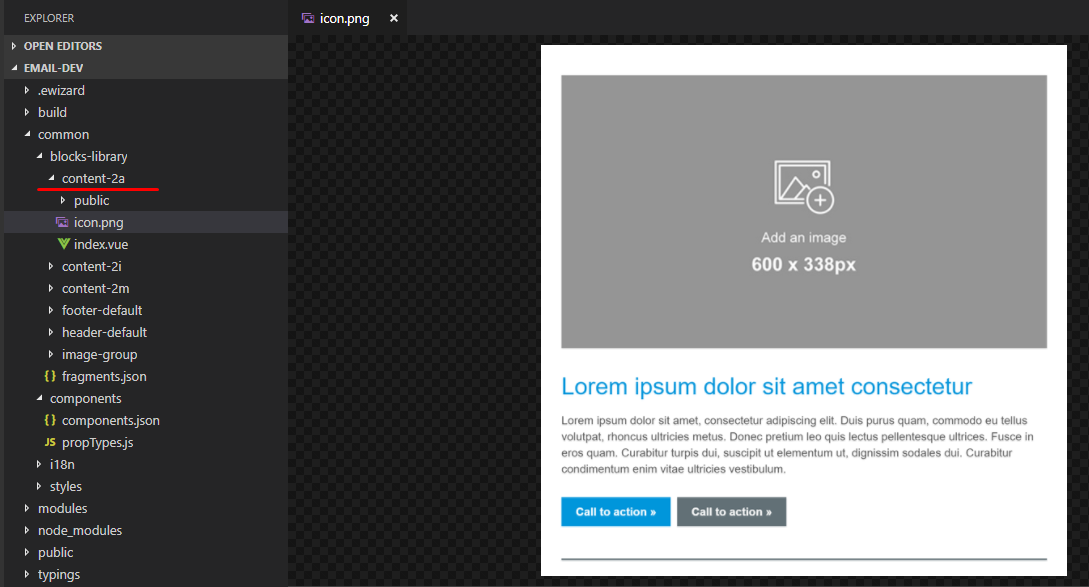
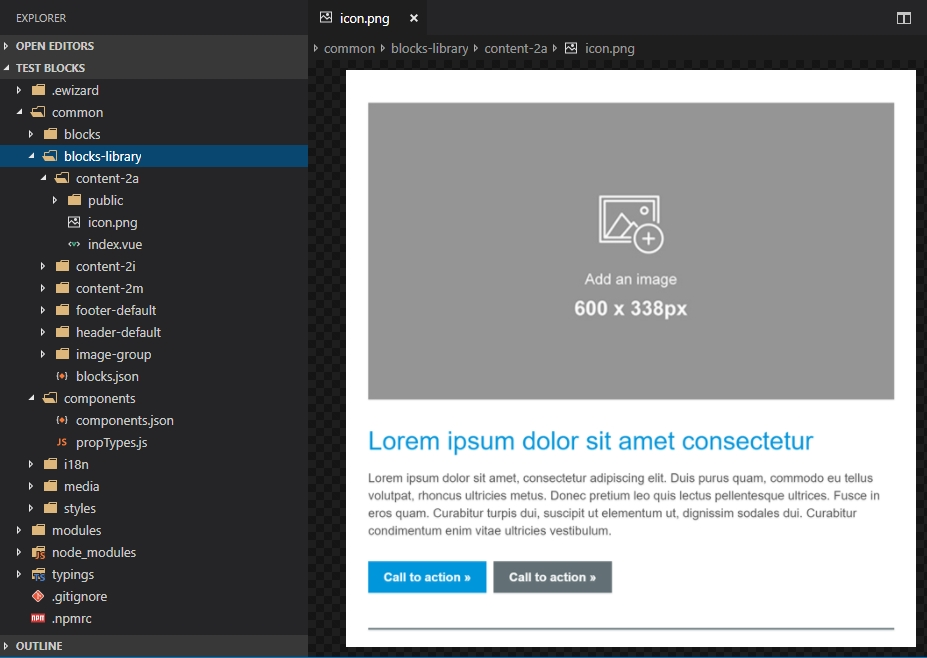
update(email/getting-started): rename fragments to blocks

Changed region(s): [[0.0, 0.0, 1.0, 1.0], [0.6041, 0.2453, 0.7853, 0.4906], [0.9666, 0.0, 0.9968, 0.0307]]

diff --git a/docs/documentation/email-development/getting-started.md b/docs/documentation/email-development/getting-started.md
@@ -34,10 +34,10 @@ By following these steps, you have created your basic email template. You can co
 
 While developing an email template you can use predefined parts of an email. They are divided into two types:
 
-* [blocks (fragments)](/documentation/email-development/blocks.html)
+* [blocks](/documentation/email-development/blocks.html)
 * components
 
-Blocks or fragments are already made sections of HTML page layout such as header, footer, etc. If you wondering how to add the block to email template check out to the [blocks documentation here](/documentation/email-development/blocks.html#adding-block-to-et). All installed blocks are described in *common/blocks-library/fragments.json* file.
+Blocks or fragments are already made sections of HTML page layout such as header, footer, etc. If you wondering how to add the block to email template check out to the [blocks documentation here](/documentation/email-development/blocks.html#adding-block-to-et). All installed blocks are described in *common/blocks-library/blocks.json* file.
 
 <img src="../../media/images/blockExample.png" alt="blockExample" style="display: block; margin: 0 auto;">
 
